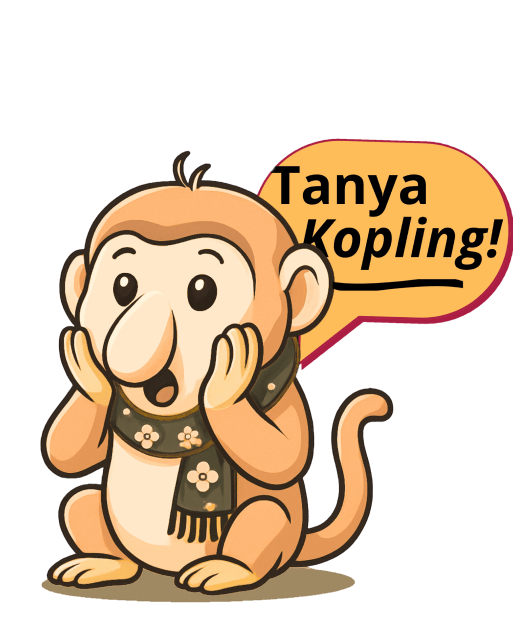
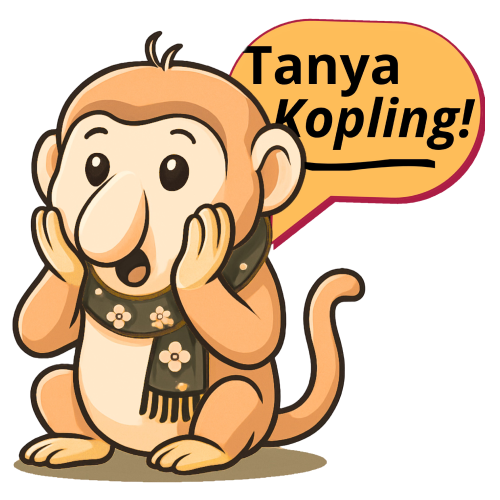
Memperbaiki Navbar dan posisi Chatbot

diff --git a/src/lib/components/home/Navbar.svelte b/src/lib/components/home/Navbar.svelte
@@ -508,12 +508,12 @@
 		}`;
 
 	const logoClass = () =>
-		`h-auto w-[7.2rem] object-contain transition-[filter] duration-300 sm:w-[8.4rem] lg:w-[13rem] ${
+		`h-auto w-[11.4rem] object-contain transition-[filter] duration-300 sm:w-[12rem] lg:w-[13rem] ${
 			useLightNav() ? 'brightness-0 invert' : 'brightness-100 saturate-100'
 		}`;
 
 	const actionButtonClass = () =>
-		`inline-flex h-9 w-9 lg:h-10 lg:w-10 items-center justify-center rounded-lg border transition-colors ${
+		`inline-flex h-11 w-11 lg:h-10 lg:w-10 items-center justify-center rounded-lg border transition-colors ${
 			useLightNav()
 				? 'border-white/25 bg-white/10 text-white'
 				: 'border-[var(--line)] bg-[var(--surface)] text-[var(--ink)]'
@@ -536,7 +536,7 @@
 />
 
 <nav class={navClass()}>
-	<div class="nav-shell nav-shell-desktop-spacious py-3 lg:py-3.5">
+	<div class="nav-shell nav-shell-desktop-spacious py-4 lg:py-3.5">
 		<div
 			class="flex items-center justify-between gap-3 lg:grid lg:grid-cols-[1fr_auto_1fr] lg:gap-10"
 		>
@@ -643,7 +643,7 @@
 					aria-expanded={isSearchOpen}
 					onclick={() => void openSearchModal()}
 				>
-					<Search class="h-4 w-4 lg:h-4.5 lg:w-4.5" strokeWidth={2} aria-hidden="true" />
+					<Search class="h-5 w-5 lg:h-4.5 lg:w-4.5" strokeWidth={2} aria-hidden="true" />
 				</button>
 
 				<a href="/login" class={`${loginButtonClass()} nav-menu-font`}>
@@ -664,9 +664,9 @@
 						onclick={toggleMobileMenu}
 					>
 						{#if isMobileOpen}
-							<X class="h-4 w-4" strokeWidth={2.2} aria-hidden="true" />
+							<X class="h-5 w-5" strokeWidth={2.2} aria-hidden="true" />
 						{:else}
-							<Menu class="h-4 w-4" strokeWidth={2.2} aria-hidden="true" />
+							<Menu class="h-5 w-5" strokeWidth={2.2} aria-hidden="true" />
 						{/if}
 					</button>
 				{/if}
@@ -688,7 +688,7 @@
 		role="dialog"
 		aria-modal="true"
 		aria-labelledby="universal-search-heading"
-		class="fixed inset-x-4 top-[4.55rem] z-[86] mx-auto w-auto max-w-3xl sm:inset-x-6 sm:top-[5.15rem] sm:w-full"
+		class="fixed inset-x-4 top-[5.15rem] z-[86] mx-auto w-auto max-w-3xl sm:inset-x-6 sm:top-[5.15rem] sm:w-full"
 		transition:fly={{ y: -10, duration: 170 }}
 	>
 		<div

diff --git a/src/lib/components/home/ChatbotWidget.svelte b/src/lib/components/home/ChatbotWidget.svelte
@@ -114,11 +114,11 @@ function toggleFaq(id: string) {
 <svelte:window onkeydown={handleWindowKeydown} />
 
 <div
-	class={`pointer-events-none fixed right-0 bottom-[max(1.35rem,env(safe-area-inset-bottom))] left-0 px-4 sm:right-6 sm:bottom-6 sm:left-auto sm:px-0 lg:right-4 lg:bottom-8 ${
+	class={`pointer-events-none fixed right-[max(1.25rem,calc(env(safe-area-inset-right)+0.8rem))] bottom-[max(2rem,calc(env(safe-area-inset-bottom)+0.9rem))] left-auto px-0 sm:right-6 sm:bottom-6 lg:right-4 lg:bottom-8 ${
 		isOpen ? 'z-[60]' : 'z-30'
 	}`}
 >
-	<div class="pointer-events-auto flex w-full flex-col items-end sm:w-auto">
+	<div class="pointer-events-auto flex w-auto flex-col items-end">
 		{#if isOpen}
 			<section
 				id="chatbot-popup"
